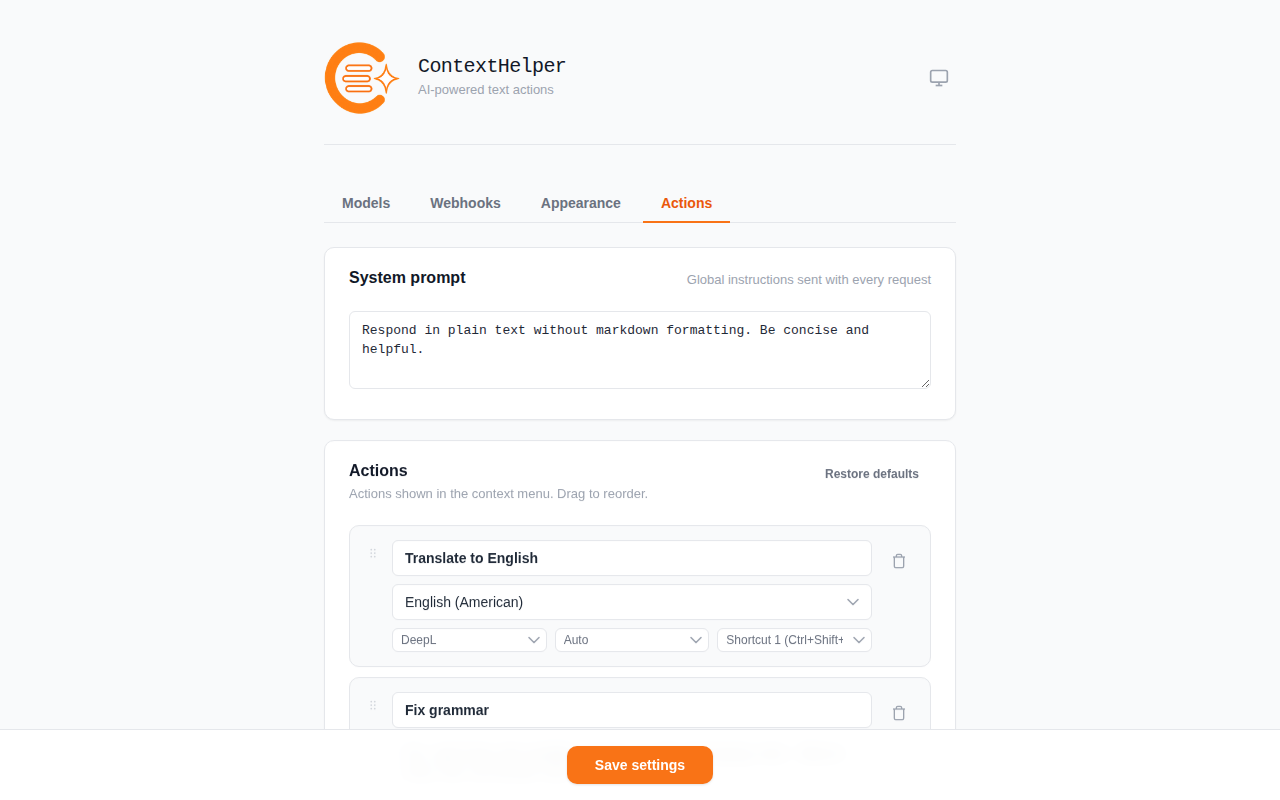
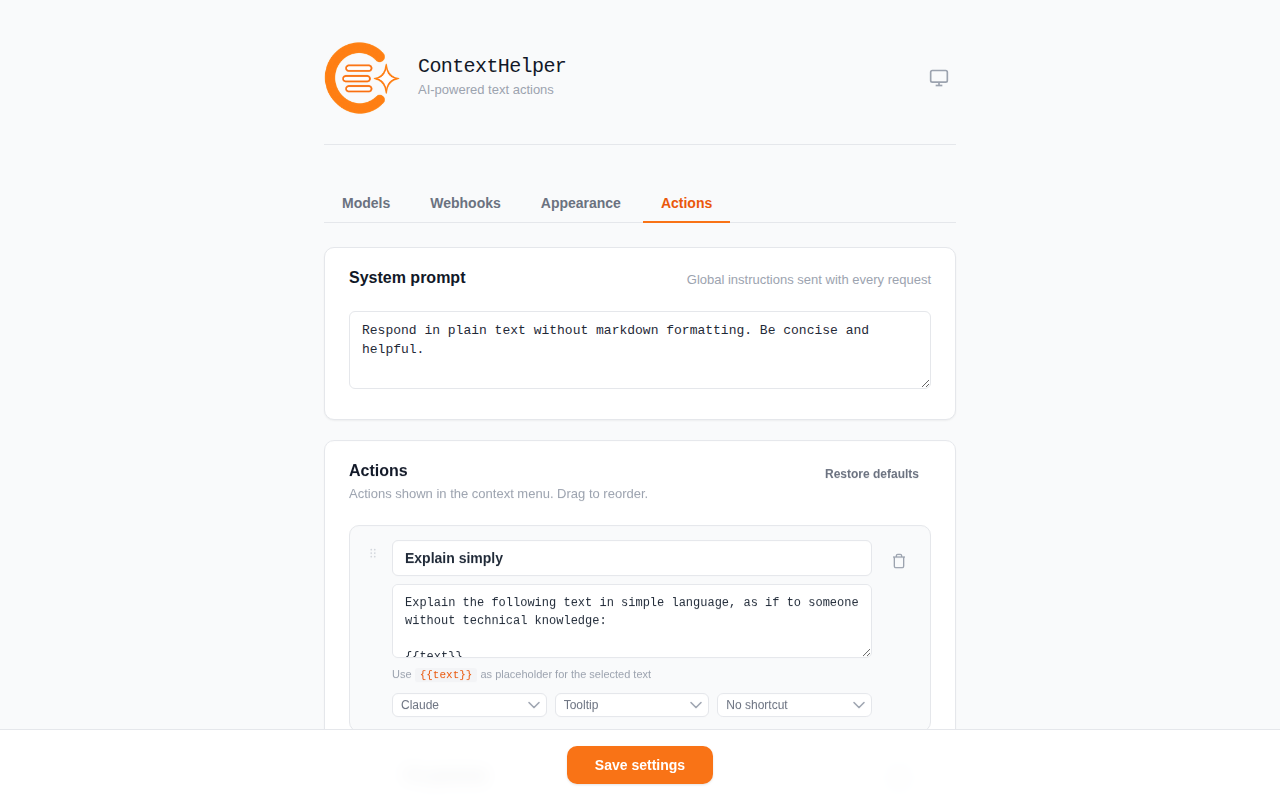
Show an LLM action in the Actions screenshot, add Appearance tab

diff --git a/README.md b/README.md
@@ -44,6 +44,10 @@ Select text, run an action, get the result in a tooltip — with one-click webho
 |---|---|
 | ![Models tab in options](docs/screenshots/options-models.png) | ![Webhooks tab in options](docs/screenshots/options-webhooks.png) |
 
+| Tooltip appearance with live preview | |
+|---|---|
+| ![Appearance tab in options](docs/screenshots/options-appearance.png) | |
+
 ## Privacy
 
 - Selected text goes **directly from your browser to the provider you chose** — nowhere else
